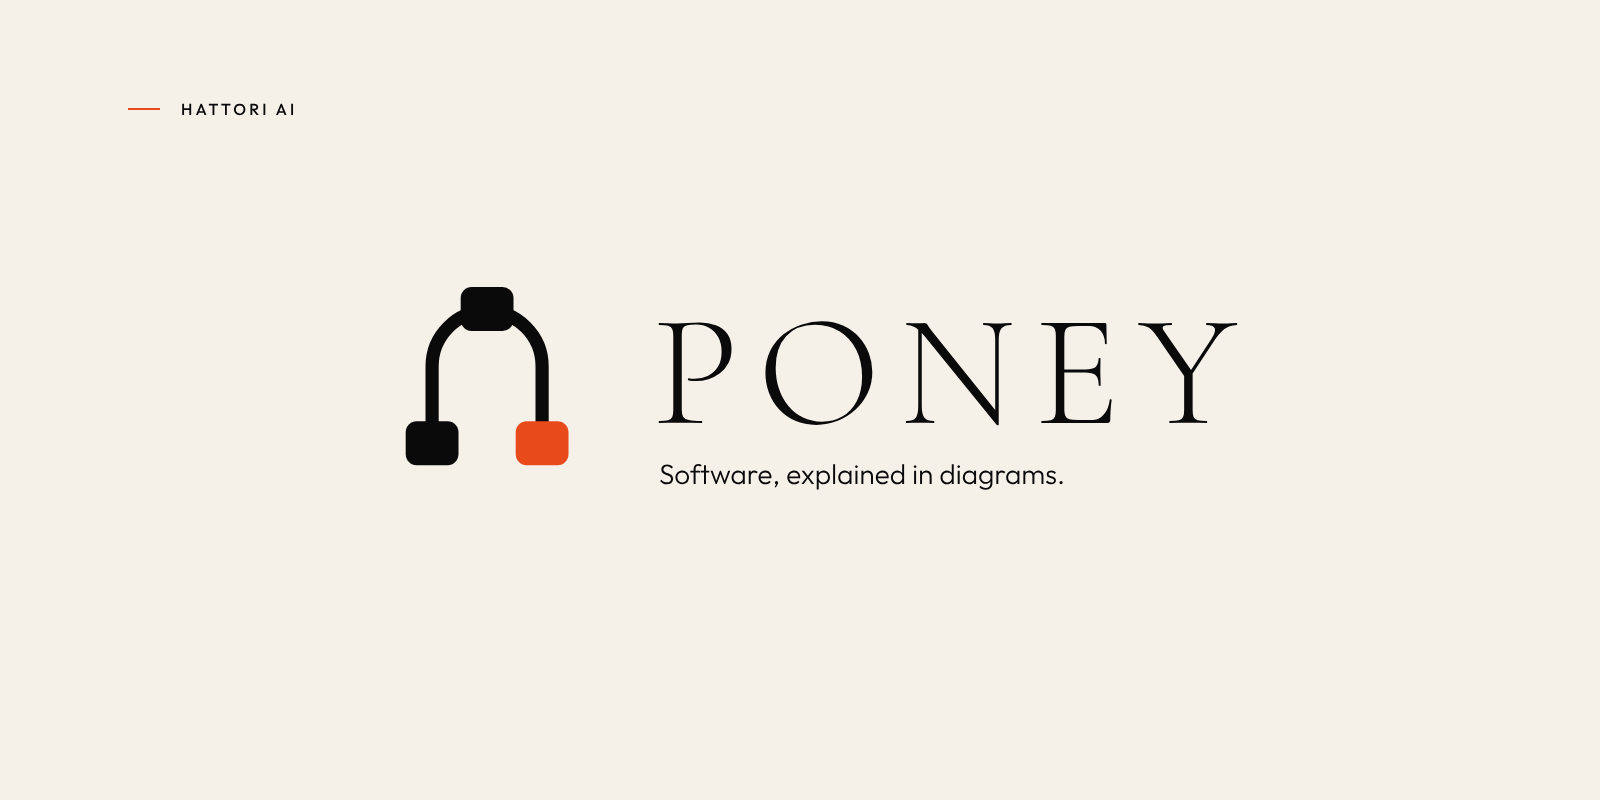
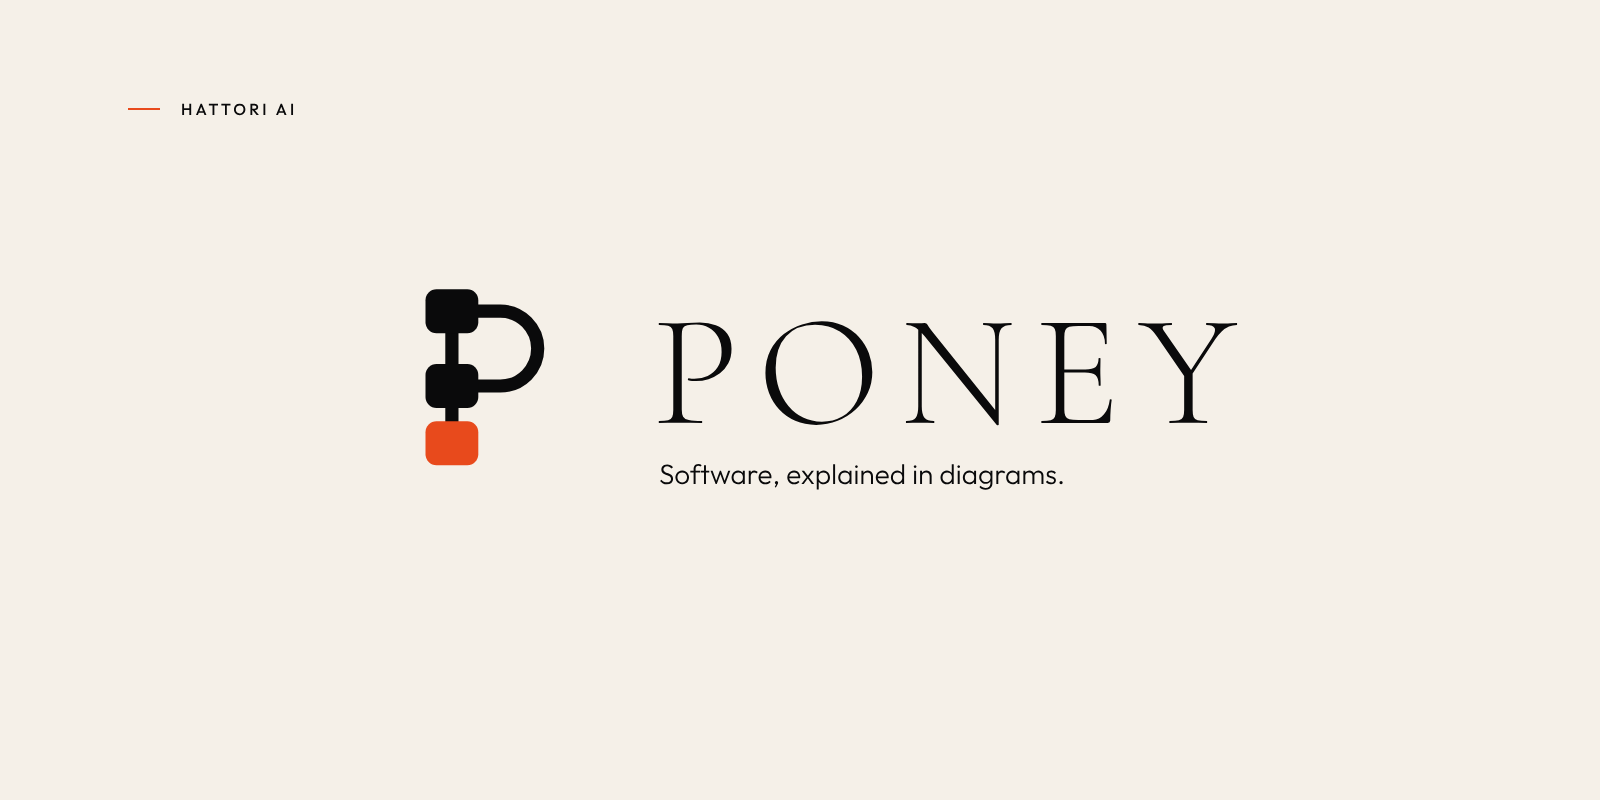
Poney's mark becomes a P drawn as a diagram
A stem and a bowl joining three nodes, the foot node in blade orange, in place
of the horseshoe. Logos, favicon, Studio sidebar mark and banners updated.

Claude-Session: https://claude.ai/code/session_01GSoEZ98D485oY5JQj3APmz

Changed region(s): [[0.25, 0.3438, 0.375, 0.5938]]

diff --git a/apps/studio/src/components/navigation/Sidebar.tsx b/apps/studio/src/components/navigation/Sidebar.tsx
@@ -149,15 +149,15 @@ function SavedTo({ fallback }: { fallback: string }) {
   )
 }
 
-/** Poney's mark: a horseshoe drawn as a diagram, an arch joining three nodes with one heel in the accent colour, on an ink tile. */
+/** Poney's mark: a P drawn as a diagram, a stem and a bowl joining three nodes with the foot in the accent colour, on an ink tile. */
 export function Mark() {
   return (
     <svg width="30" height="30" viewBox="-22 -18 156 152" aria-hidden className="shrink-0">
       <rect x="-22" y="-18" width="156" height="152" rx="36" fill="var(--ink)" />
-      <path d="M31 84V51A25 25 0 0 1 81 51V84" fill="none" stroke="var(--paper)" strokeWidth="6" />
-      <rect x="44" y="15" width="24" height="20" rx="5" fill="var(--paper)" />
-      <rect x="19" y="76" width="24" height="20" rx="5" fill="var(--paper)" />
-      <rect x="69" y="76" width="24" height="20" rx="5" fill="var(--poney)" />
+      <path d="M40 26V86M40 26H62A17 17 0 0 1 62 60H40" fill="none" stroke="var(--paper)" strokeWidth="6" strokeLinejoin="round" />
+      <rect x="28" y="16" width="24" height="20" rx="5" fill="var(--paper)" />
+      <rect x="28" y="50" width="24" height="20" rx="5" fill="var(--paper)" />
+      <rect x="28" y="76" width="24" height="20" rx="5" fill="var(--poney)" />
     </svg>
   )
 }
